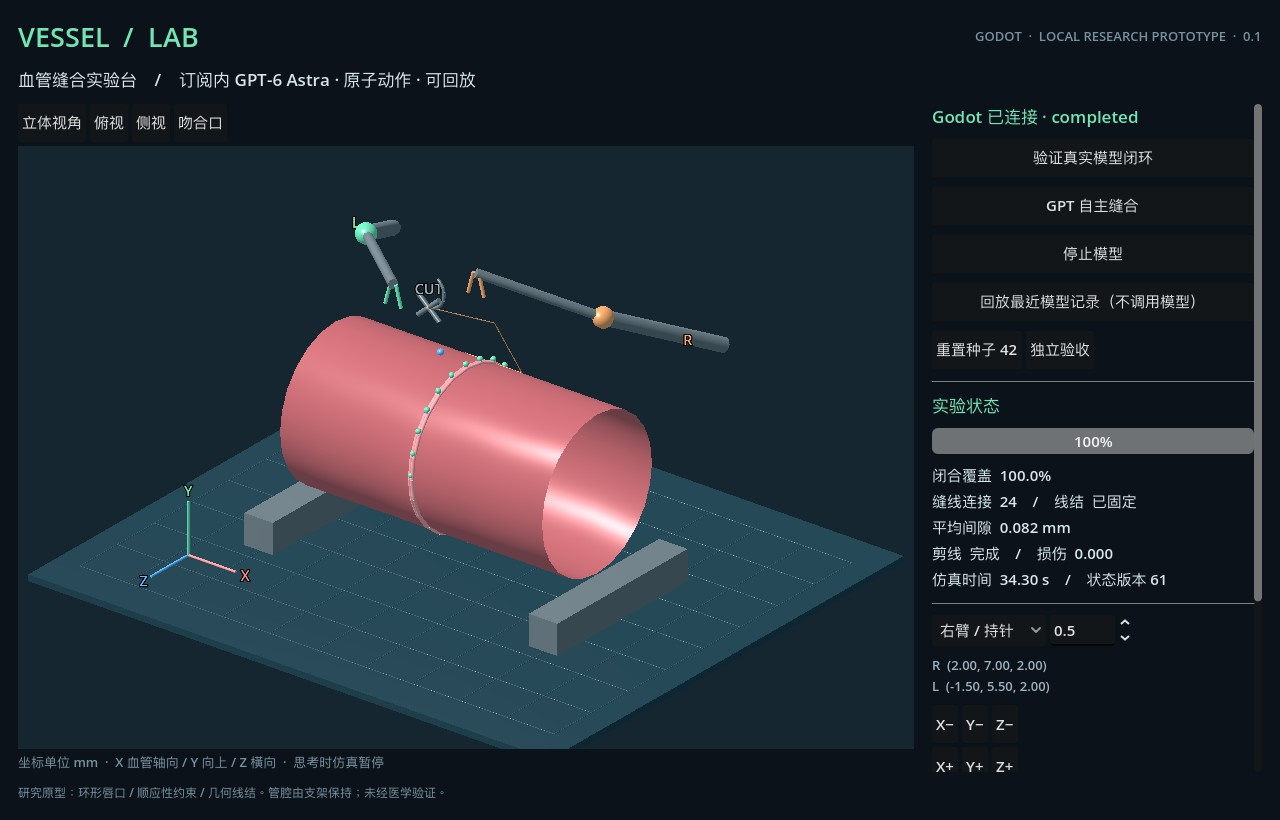
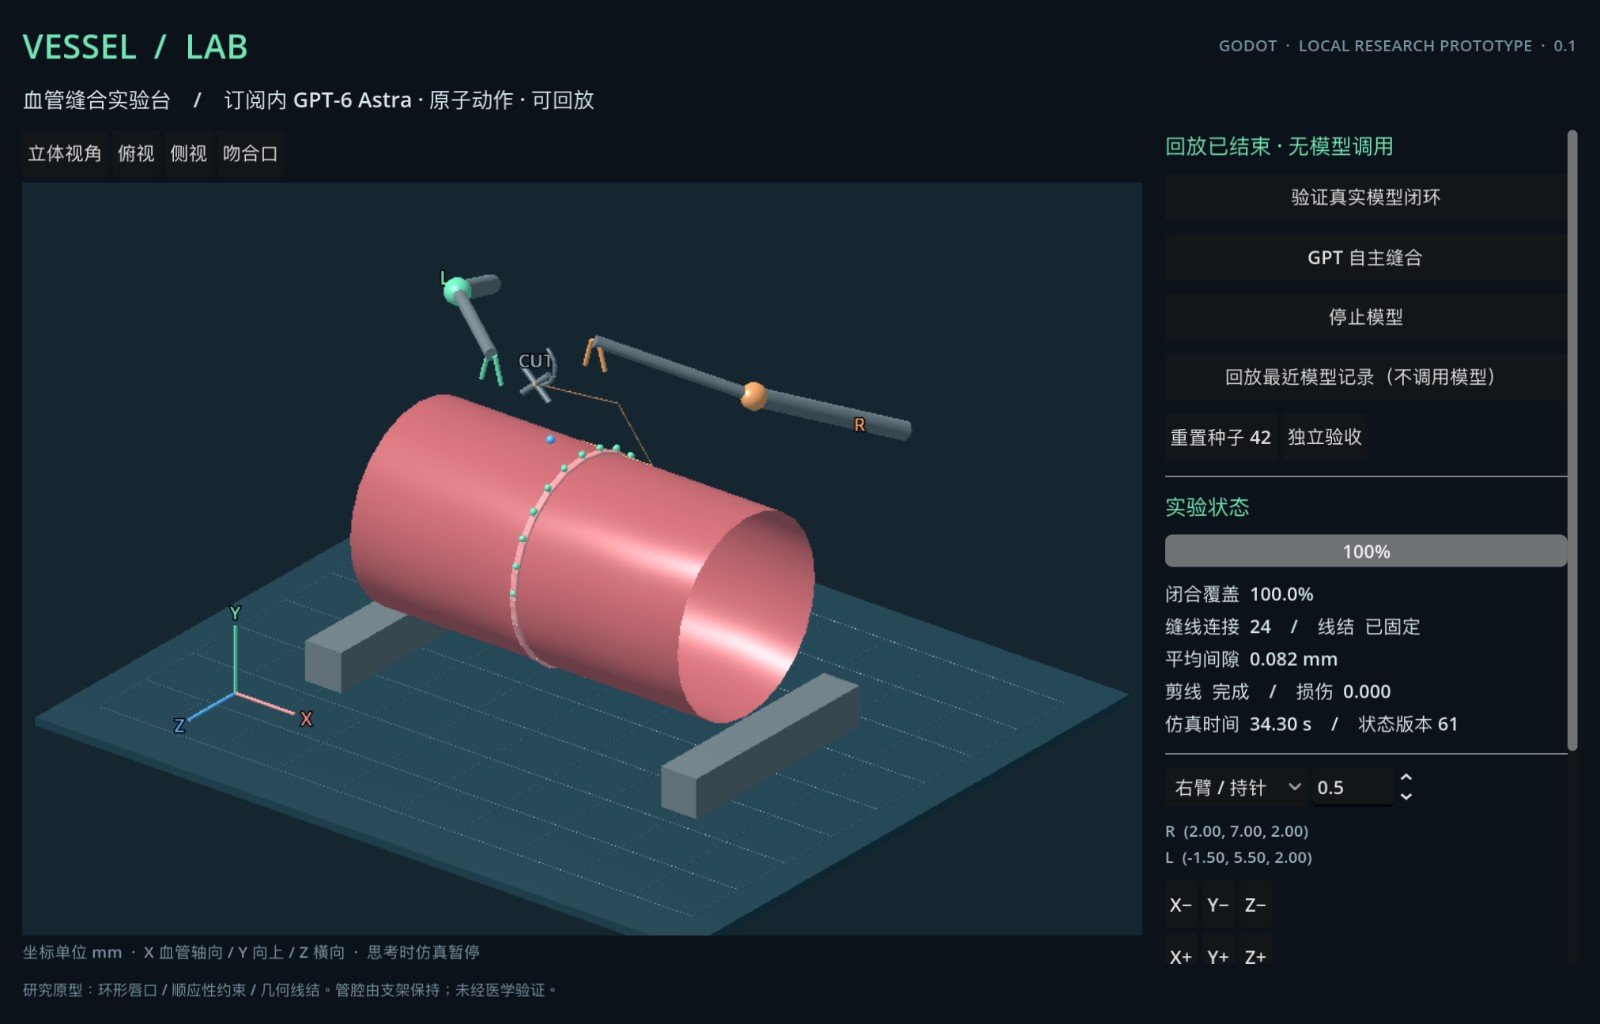
Record clean-release replay verification and final Godot UI

diff --git a/evidence/VERIFICATION.md b/evidence/VERIFICATION.md
@@ -19,6 +19,7 @@
 | 运行成本观察 | 运行前后积分余额未变化，普通订阅额度可用；无外部收费服务 |
 | 离线校验 | 67 张原始 Godot 反馈图像哈希一致，所有模型位移动作对应实际引擎命令，确定性重放终态一致 |
 | 重启验收 | 实际执行 `Start.command` 后在 Godot 中重放到同一通过终态 |
+| 干净发布包 | 不含本机 sessions 的 Git archive 独立启动后，自带样本完整重放通过；关键 HTTP 拒绝/幂等条件通过，见 `release-check.json` |
 
 完整模型运行时间为北京时间 **00:41:14–00:49:47** 左右。该证据是一个固定种子 42 的样本，不支持稳定成功率或泛化能力结论。
 
